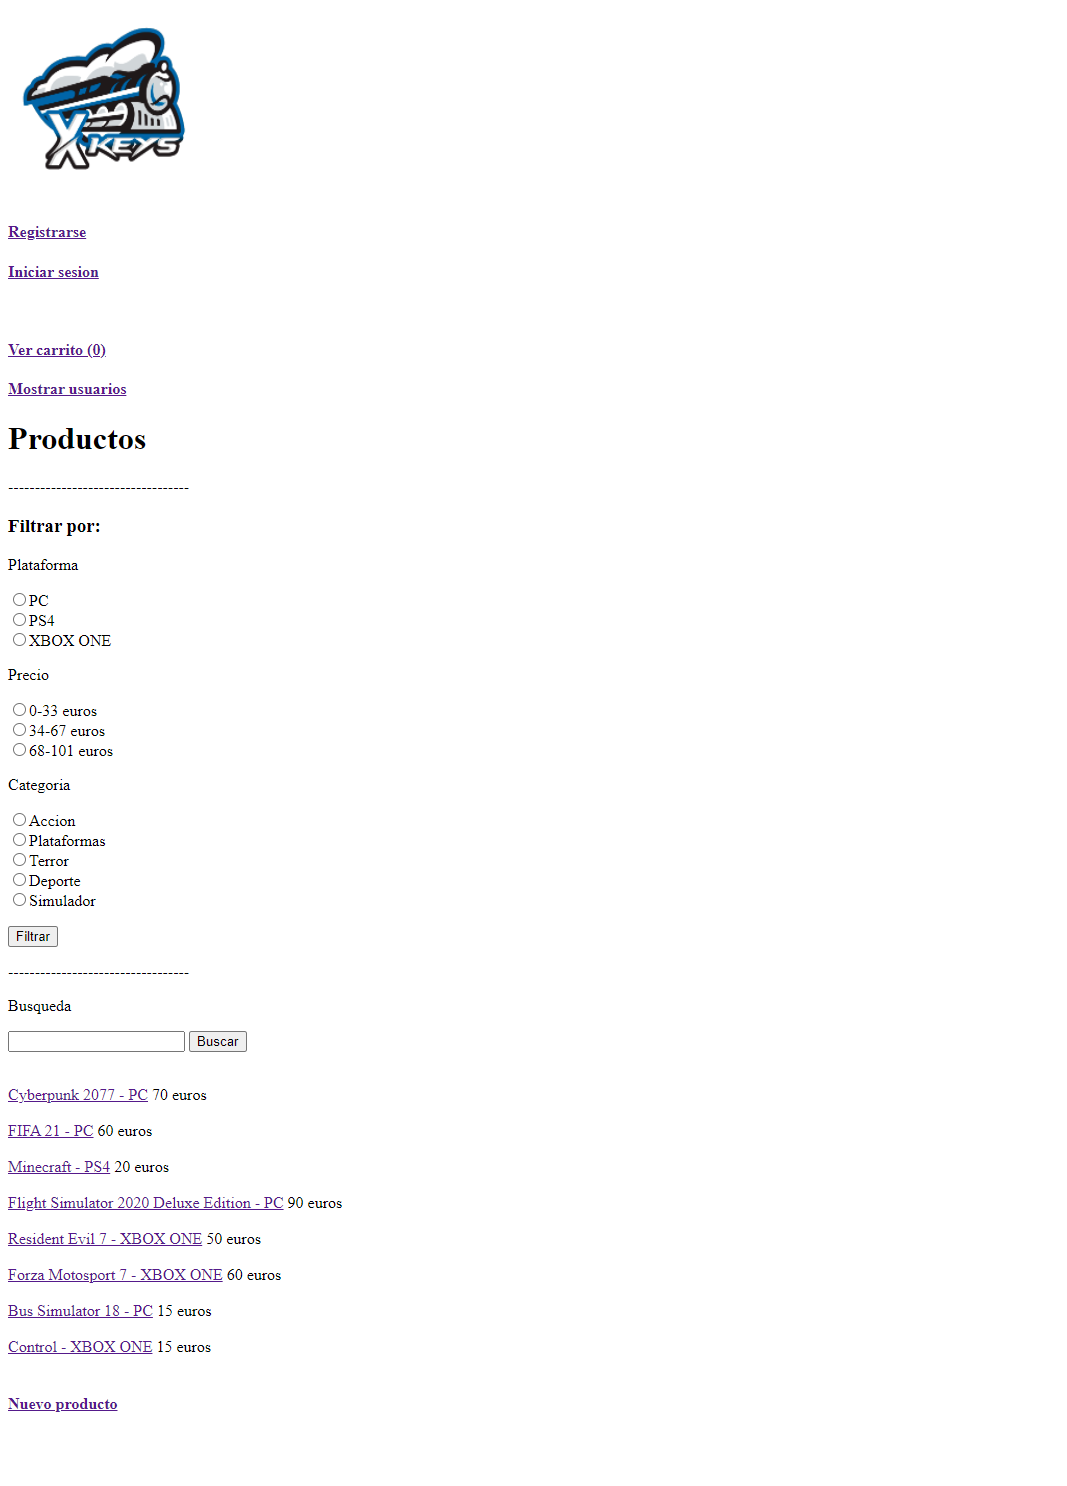
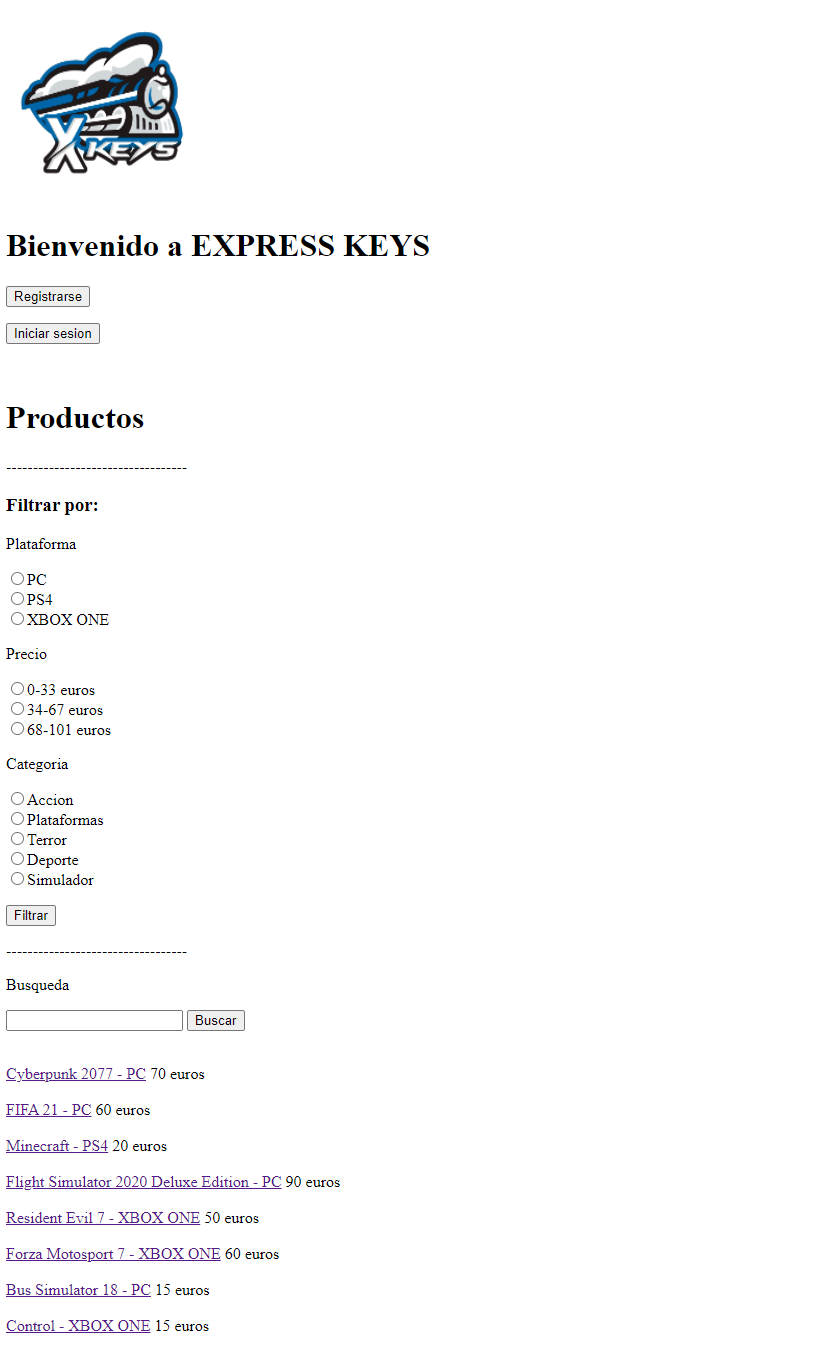
Capturas de pantalla actualizadas

Changed region(s): [[0.0, 0.0, 0.2448, 0.685], [0.0, 0.685, 0.3672, 0.9963], [0.2142, 0.1557, 0.5202, 0.1868]]

diff --git a/README.md b/README.md
@@ -34,7 +34,7 @@ El servicio interno enviará un correo electrónico al usuario tras la compra de
 * Nerfi Salim Perello [n.salim.2017@alumnos.urjc.es] https://github.com/nerf7
 
 # Capturas de pantalla 
-* Página principal: Como página principal, se muestra tanto el catálogo completo de productos junto a los filtros de búsqueda, además de los enlaces de registro e inicio de sesión, y el acceso al carrito. Como opciones exclusivas para los administradores, están el acceso a la lista de usuarios y la posibilidad de añadir un nuevo producto.
+* Página principal: Como página principal, se muestra tanto el catálogo completo de productos junto a los filtros de búsqueda, además de los enlaces de registro e inicio de sesión.
 <p align="center">
 <img src="imagenes/PaginaPrincipal.png">
   
@@ -49,12 +49,28 @@ El servicio interno enviará un correo electrónico al usuario tras la compra de
 * Inicio de sesión: Se trata de la pantalla que recibe los datos de login de un usuario para que pueda iniciar sesión.
 <p align="center">
 <img src="imagenes/InicioDeSesion.png">
+
+* Página principal (logged): Página principal una vez se ha iniciado sesión correctamente. Es como la pantalla Página principal, pero permite acceder a la Página del carrito y a la Página de usuario. Para administradores, permite acceder a la pantalla Admin.
+<p align="center">
+<img src="imagenes/PaginaPrincipalLogged.png">
+
+* Login error: Pantalla de aviso de que el usuario y contraseña introducidos no pertenecen a ningún usuario registrado. Permite volver a la pantlla de Inicio de sesión.
+<p align="center">
+<img src="imagenes/LoginError.png">
+
+* Admin: Pantalla exclusiva para administradores que permite mostrar la pantalla de Lista de usuarios, Nuevo producto o volver a la Página principal (logged).
+<p align="center">
+<img src="imagenes/Admin.png">
+
+* Perfil: Pantalla que muestra los datos del usuario en la sesión.
+<p align="center">
+<img src="imagenes/Perfil.png">
   
-* Lista de usuarios: Como opción para los administradores, contiene la lista de los usuarios registrados actualmente. Permite acceder a la página de cada usuario o volver a la Página principal.
+* Lista de usuarios: Como opción para los administradores, contiene la lista de los usuarios registrados actualmente y sus roles. Permite acceder a la página de cada usuario o volver a la Página principal (logged).
 <p align="center">
 <img src="imagenes/ListaDeUsuarios.png">
   
-* Página de usuario: Muestra los datos de un usuario y da la opción de eliminarlo de la base de datos.
+* Página de usuario: Página exclusiva de administradores que muestra los datos de un usuario y da la opción de eliminarlo de la base de datos.
 <p align="center">
 <img src="imagenes/PaginaDeUsuario.png">
   
@@ -70,7 +86,7 @@ El servicio interno enviará un correo electrónico al usuario tras la compra de
 <p align="center">
 <img src="imagenes/ProductoGuardado.png">
   
-* Página de producto: Muestra la información de un producto y da la opción de añadirlo al carrito, dejar una valoración o volver a la página principal. Como opción para los administradores, está la posibilidad de eliminar el producto de la base de datos.
+* Página de producto: Muestra la información de un producto y da la opción de añadirlo al carrito, dejar una valoración o volver a la página principal. Como opción para los administradores, está la posibilidad de eliminar el producto de la base de datos y poder ver las keys que quedan del producto.
 <p align="center">
 <img src="imagenes/PaginaDeProducto.png">
   
@@ -99,6 +115,10 @@ El servicio interno enviará un correo electrónico al usuario tras la compra de
 <img src="imagenes/PaginaDelCarrito.png">
   
 * Compra finalizada: Pantalla de aviso de que la compra ha sido completada. Se adjunta un recibo con los productos comprados y su key. Lleva de vuelta a la Página principal.
+<p align="center">
+<img src="imagenes/CompraFinalizada.png">
+
+* Error compra: Pantalla de aviso de que ocurrió un error al procesar la compra. El carrito se mantendrá como estaba. Lleva de vuelta a la Página principal (logged).
 <p align="center">
 <img src="imagenes/CompraFinalizada.png">
 
